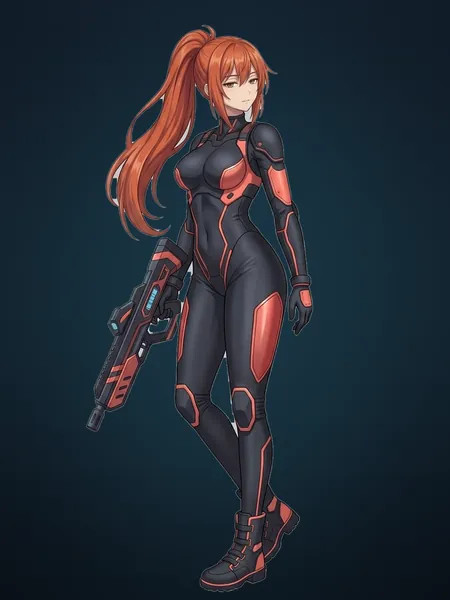
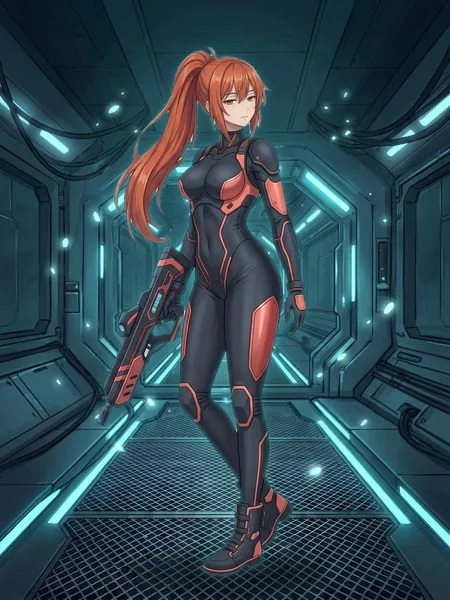
gundraw: 컨셉아트 12장(4명×3컷, art-slots-v5) 반영·다온·아리 카드 복도 배경판 교체(gamehub 80f6c539, 다온 일상복 b 새 원피스판 포함)

diff --git a/games/gundraw/index.html b/games/gundraw/index.html
@@ -120,12 +120,42 @@
       <h2 class="section__title"><span lang="ko" data-l="ko">한 사람에 세 장면씩</span><span lang="en" data-l="en">Three scenes for each agent</span></h2>
     </header>
     <div class="concept__box reveal" data-js="concept">
-      <div class="concept__panel">
+      <div class="concept__tabs" role="tablist" aria-label="캐릭터 고르기" data-en-label="Pick a character">
+        <button type="button" class="concept__tab" role="tab" id="concept-tab-somi" aria-controls="concept-somi" aria-selected="true" tabindex="0"><span class="concept__face"><img src="/assets/games/gundraw/art/cast-somi-450.webp" alt="" width="450" height="600" loading="lazy" decoding="async"></span><span><span lang="ko" data-l="ko">소미</span><span lang="en" data-l="en">Somi</span></span></button>
+        <button type="button" class="concept__tab" role="tab" id="concept-tab-daon" aria-controls="concept-daon" aria-selected="false" tabindex="-1"><span class="concept__face"><img src="/assets/games/gundraw/art/cast-daon-450.webp" alt="" width="450" height="600" loading="lazy" decoding="async"></span><span><span lang="ko" data-l="ko">다온</span><span lang="en" data-l="en">Daon</span></span></button>
+        <button type="button" class="concept__tab" role="tab" id="concept-tab-bori" aria-controls="concept-bori" aria-selected="false" tabindex="-1"><span class="concept__face"><img src="/assets/games/gundraw/art/cast-bori-450.webp" alt="" width="450" height="600" loading="lazy" decoding="async"></span><span><span lang="ko" data-l="ko">보리</span><span lang="en" data-l="en">Bori</span></span></button>
+        <button type="button" class="concept__tab" role="tab" id="concept-tab-ari" aria-controls="concept-ari" aria-selected="false" tabindex="-1"><span class="concept__face"><img src="/assets/games/gundraw/art/cast-ari-450.webp" alt="" width="450" height="600" loading="lazy" decoding="async"></span><span><span lang="ko" data-l="ko">아리</span><span lang="en" data-l="en">Ari</span></span></button>
+      </div>
+      <div class="concept__panel" role="tabpanel" id="concept-somi" aria-labelledby="concept-tab-somi">
+        <h3 class="concept__name"><span lang="ko" data-l="ko">소미</span><span lang="en" data-l="en">Somi</span></h3>
+        <div class="concept__row" tabindex="0" aria-label="소미 컨셉아트" data-en-label="Somi concept art">
+          <figure class="cast__art concept__cut"><img src="/assets/games/gundraw/art/concept-somi-1-900.webp" srcset="/assets/games/gundraw/art/concept-somi-1-900.webp 900w, /assets/games/gundraw/art/concept-somi-1-450.webp 450w" sizes="(max-width: 599px) 72vw, (max-width: 899px) 44vw, 340px" alt="복도에 정면으로 선 전투복 차림의 소미" data-en-alt="Somi in her combat suit, standing in a corridor" width="900" height="1200" loading="lazy" decoding="async"></figure>
+          <figure class="cast__art concept__cut"><img src="/assets/games/gundraw/art/concept-somi-2-900.webp" srcset="/assets/games/gundraw/art/concept-somi-2-900.webp 900w, /assets/games/gundraw/art/concept-somi-2-450.webp 450w" sizes="(max-width: 599px) 72vw, (max-width: 899px) 44vw, 340px" alt="휴게실 소파에서 커피를 든 니트 차림의 소미" data-en-alt="Somi off duty in a knit sweater, holding a coffee on the lounge sofa" width="900" height="1200" loading="lazy" decoding="async"></figure>
+          <figure class="cast__art concept__cut"><img src="/assets/games/gundraw/art/concept-somi-3-900.webp" srcset="/assets/games/gundraw/art/concept-somi-3-900.webp 900w, /assets/games/gundraw/art/concept-somi-3-450.webp 450w" sizes="(max-width: 599px) 72vw, (max-width: 899px) 44vw, 340px" alt="도시 야경이 보이는 옥상에서 뒤돌아보는 소미" data-en-alt="Somi glancing back on a rooftop above the city at night" width="900" height="1200" loading="lazy" decoding="async"></figure>
+        </div>
+      </div>
+      <div class="concept__panel" role="tabpanel" id="concept-daon" aria-labelledby="concept-tab-daon">
+        <h3 class="concept__name"><span lang="ko" data-l="ko">다온</span><span lang="en" data-l="en">Daon</span></h3>
+        <div class="concept__row" tabindex="0" aria-label="다온 컨셉아트" data-en-label="Daon concept art">
+          <figure class="cast__art concept__cut"><img src="/assets/games/gundraw/art/concept-daon-1-900.webp" srcset="/assets/games/gundraw/art/concept-daon-1-900.webp 900w, /assets/games/gundraw/art/concept-daon-1-450.webp 450w" sizes="(max-width: 599px) 72vw, (max-width: 899px) 44vw, 340px" alt="작전실에서 몸을 비틀어 선 다온" data-en-alt="Daon standing with a twist in the ops room" width="900" height="1200" loading="lazy" decoding="async"></figure>
+          <figure class="cast__art concept__cut"><img src="/assets/games/gundraw/art/concept-daon-2-900.webp" srcset="/assets/games/gundraw/art/concept-daon-2-900.webp 900w, /assets/games/gundraw/art/concept-daon-2-450.webp 450w" sizes="(max-width: 599px) 72vw, (max-width: 899px) 44vw, 340px" alt="휴게실 바 의자에 다리를 꼬고 앉은 원피스 차림의 다온" data-en-alt="Daon in a fitted dress, legs crossed on a lounge bar stool" width="900" height="1200" loading="lazy" decoding="async"></figure>
+          <figure class="cast__art concept__cut"><img src="/assets/games/gundraw/art/concept-daon-3-900.webp" srcset="/assets/games/gundraw/art/concept-daon-3-900.webp 900w, /assets/games/gundraw/art/concept-daon-3-450.webp 450w" sizes="(max-width: 599px) 72vw, (max-width: 899px) 44vw, 340px" alt="총을 어깨에 메고 격납고를 걷는 다온" data-en-alt="Daon walking through the hangar, rifle on her shoulder" width="900" height="1200" loading="lazy" decoding="async"></figure>
+        </div>
+      </div>
+      <div class="concept__panel" role="tabpanel" id="concept-bori" aria-labelledby="concept-tab-bori">
+        <h3 class="concept__name"><span lang="ko" data-l="ko">보리</span><span lang="en" data-l="en">Bori</span></h3>
+        <div class="concept__row" tabindex="0" aria-label="보리 컨셉아트" data-en-label="Bori concept art">
+          <figure class="cast__art concept__cut"><img src="/assets/games/gundraw/art/concept-bori-1-900.webp" srcset="/assets/games/gundraw/art/concept-bori-1-900.webp 900w, /assets/games/gundraw/art/concept-bori-1-450.webp 450w" sizes="(max-width: 599px) 72vw, (max-width: 899px) 44vw, 340px" alt="풍선껌을 불며 뛰어올라 총을 쏘는 보리" data-en-alt="Bori blowing a bubble and firing mid-jump" width="900" height="1200" loading="lazy" decoding="async"></figure>
+          <figure class="cast__art concept__cut"><img src="/assets/games/gundraw/art/concept-bori-2-900.webp" srcset="/assets/games/gundraw/art/concept-bori-2-900.webp 900w, /assets/games/gundraw/art/concept-bori-2-450.webp 450w" sizes="(max-width: 599px) 72vw, (max-width: 899px) 44vw, 340px" alt="거리에서 풍선껌을 불며 브이를 하는 후드 차림의 보리" data-en-alt="Bori in a hoodie on the street, blowing a bubble and flashing a V" width="900" height="1200" loading="lazy" decoding="async"></figure>
+          <figure class="cast__art concept__cut"><img src="/assets/games/gundraw/art/concept-bori-3-900.webp" srcset="/assets/games/gundraw/art/concept-bori-3-900.webp 900w, /assets/games/gundraw/art/concept-bori-3-450.webp 450w" sizes="(max-width: 599px) 72vw, (max-width: 899px) 44vw, 340px" alt="쪼그려 앉아 총을 끌어안은 보리" data-en-alt="Bori crouching with her rifle hugged close" width="900" height="1200" loading="lazy" decoding="async"></figure>
+        </div>
+      </div>
+      <div class="concept__panel" role="tabpanel" id="concept-ari" aria-labelledby="concept-tab-ari">
         <h3 class="concept__name"><span lang="ko" data-l="ko">아리</span><span lang="en" data-l="en">Ari</span></h3>
         <div class="concept__row" tabindex="0" aria-label="아리 컨셉아트" data-en-label="Ari concept art">
-          <figure class="cast__art concept__cut"><img src="/assets/games/gundraw/art/concept-ari-1-900.webp" srcset="/assets/games/gundraw/art/concept-ari-1-900.webp 900w, /assets/games/gundraw/art/concept-ari-1-450.webp 450w" sizes="(max-width: 599px) 72vw, (max-width: 899px) 44vw, 340px" alt="총을 들고 살펴보는 아리" data-en-alt="Ari checking over her rifle" width="900" height="1200" loading="lazy" decoding="async"></figure>
-          <figure class="cast__art concept__cut"><img src="/assets/games/gundraw/art/concept-ari-2-900.webp" srcset="/assets/games/gundraw/art/concept-ari-2-900.webp 900w, /assets/games/gundraw/art/concept-ari-2-450.webp 450w" sizes="(max-width: 599px) 72vw, (max-width: 899px) 44vw, 340px" alt="무릎을 꿇고 총을 분해하는 아리" data-en-alt="Ari kneeling to take a rifle apart" width="900" height="1200" loading="lazy" decoding="async"></figure>
-          <figure class="cast__art concept__cut"><img src="/assets/games/gundraw/art/concept-ari-3-900.webp" srcset="/assets/games/gundraw/art/concept-ari-3-900.webp 900w, /assets/games/gundraw/art/concept-ari-3-450.webp 450w" sizes="(max-width: 599px) 72vw, (max-width: 899px) 44vw, 340px" alt="홀로그램 화면을 만지며 웃는 아리" data-en-alt="Ari grinning at a holographic screen" width="900" height="1200" loading="lazy" decoding="async"></figure>
+          <figure class="cast__art concept__cut"><img src="/assets/games/gundraw/art/concept-ari-1-900.webp" srcset="/assets/games/gundraw/art/concept-ari-1-900.webp 900w, /assets/games/gundraw/art/concept-ari-1-450.webp 450w" sizes="(max-width: 599px) 72vw, (max-width: 899px) 44vw, 340px" alt="정비고 작업대 앞에서 공구를 든 아리" data-en-alt="Ari holding a tool at the repair-bay workbench" width="900" height="1200" loading="lazy" decoding="async"></figure>
+          <figure class="cast__art concept__cut"><img src="/assets/games/gundraw/art/concept-ari-2-900.webp" srcset="/assets/games/gundraw/art/concept-ari-2-900.webp 900w, /assets/games/gundraw/art/concept-ari-2-450.webp 450w" sizes="(max-width: 599px) 72vw, (max-width: 899px) 44vw, 340px" alt="부품이 널린 책상에 엎드려 잠든 아리" data-en-alt="Ari asleep face-down on a desk covered in parts" width="900" height="1200" loading="lazy" decoding="async"></figure>
+          <figure class="cast__art concept__cut"><img src="/assets/games/gundraw/art/concept-ari-3-900.webp" srcset="/assets/games/gundraw/art/concept-ari-3-900.webp 900w, /assets/games/gundraw/art/concept-ari-3-450.webp 450w" sizes="(max-width: 599px) 72vw, (max-width: 899px) 44vw, 340px" alt="벽에 기대 홀로그램 큐브를 띄우고 손을 흔드는 아리" data-en-alt="Ari leaning on a wall, waving with a hologram cube in hand" width="900" height="1200" loading="lazy" decoding="async"></figure>
         </div>
       </div>
     </div>

diff --git a/tools/make-gundraw-art.py b/tools/make-gundraw-art.py
@@ -59,11 +59,10 @@ def card(path):
 for k in ('somi', 'daon', 'bori', 'ari'):
     im = card(W(f'web/char-{k}-1200x1600.png'))
     for w in (900, 450): save(im, f'cast-{k}-{w}.webp', w, round(w * 4 / 3))
-# 컨셉아트(캐릭터별 3컷): web/concept-<id>-<1..3>.png. 아리는 파일이 없으면 final/ari-1..3.png
+# 컨셉아트(캐릭터별 3컷, art-slots-v5): web/concept/<id>-<a|b|c>-1200x1600.png -> concept-<id>-<1|2|3>-*.webp (b는 일상복). *-pre.png는 쓰지 않음
 for k in ('somi', 'daon', 'bori', 'ari'):
-    for n in (1, 2, 3):
-        f = W(f'web/concept-{k}-{n}.png')
-        if not os.path.exists(f) and k == 'ari': f = W(f'final/ari-{n}.png')
+    for n, v in ((1, 'a'), (2, 'b'), (3, 'c')):
+        f = W(f'web/concept/{k}-{v}-1200x1600.png')
         if not os.path.exists(f): continue
         im = crop34(Image.open(f))
         for w in (900, 450): save(im, f'concept-{k}-{n}-{w}.webp', w, round(w * 4 / 3))
